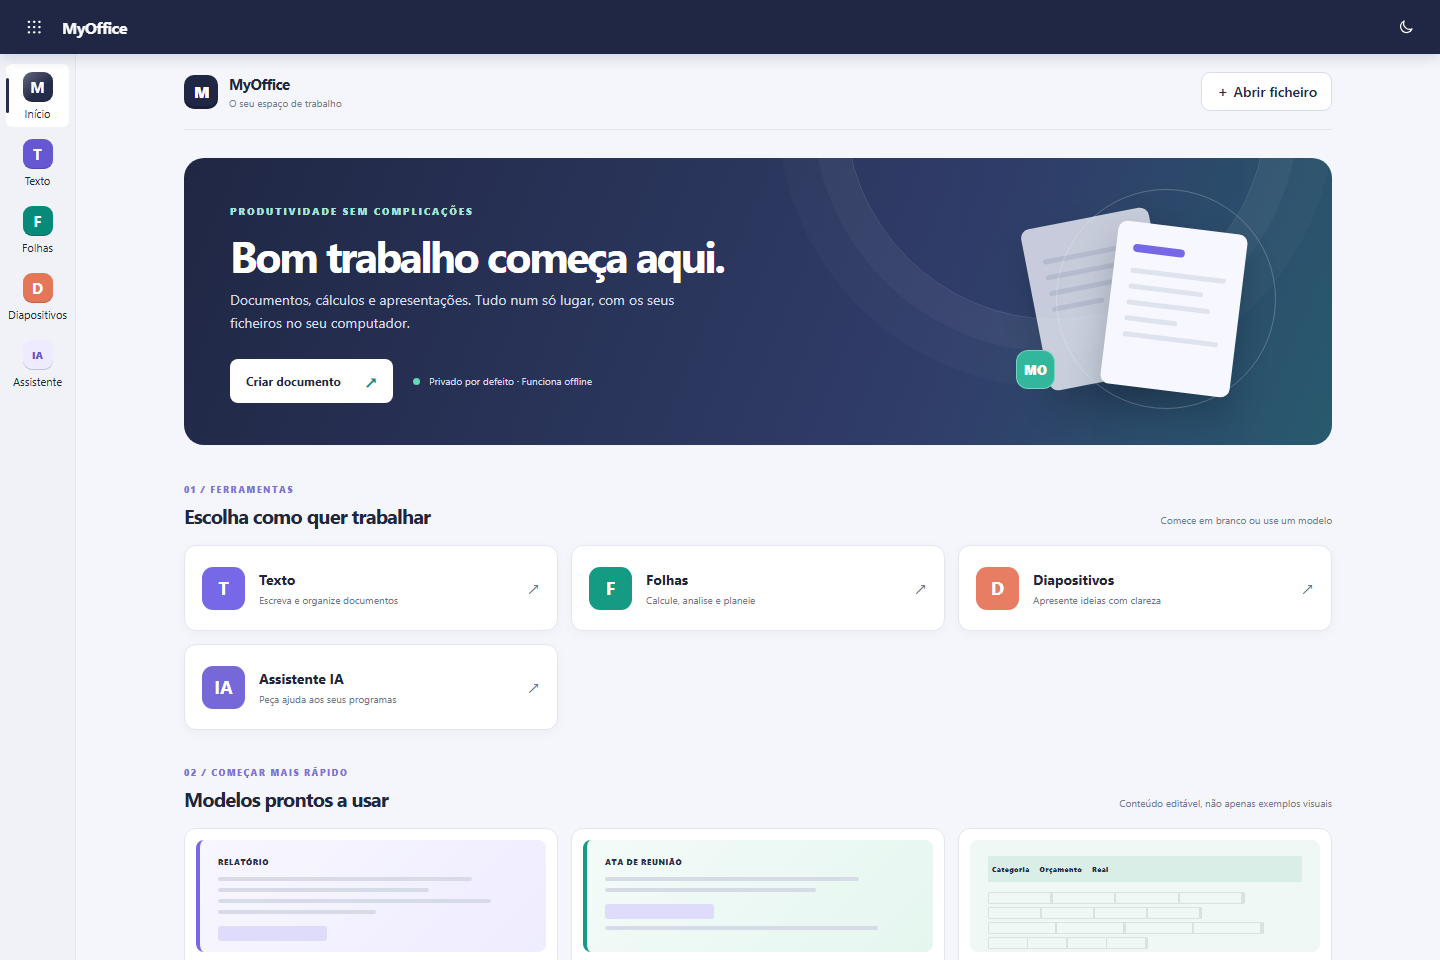
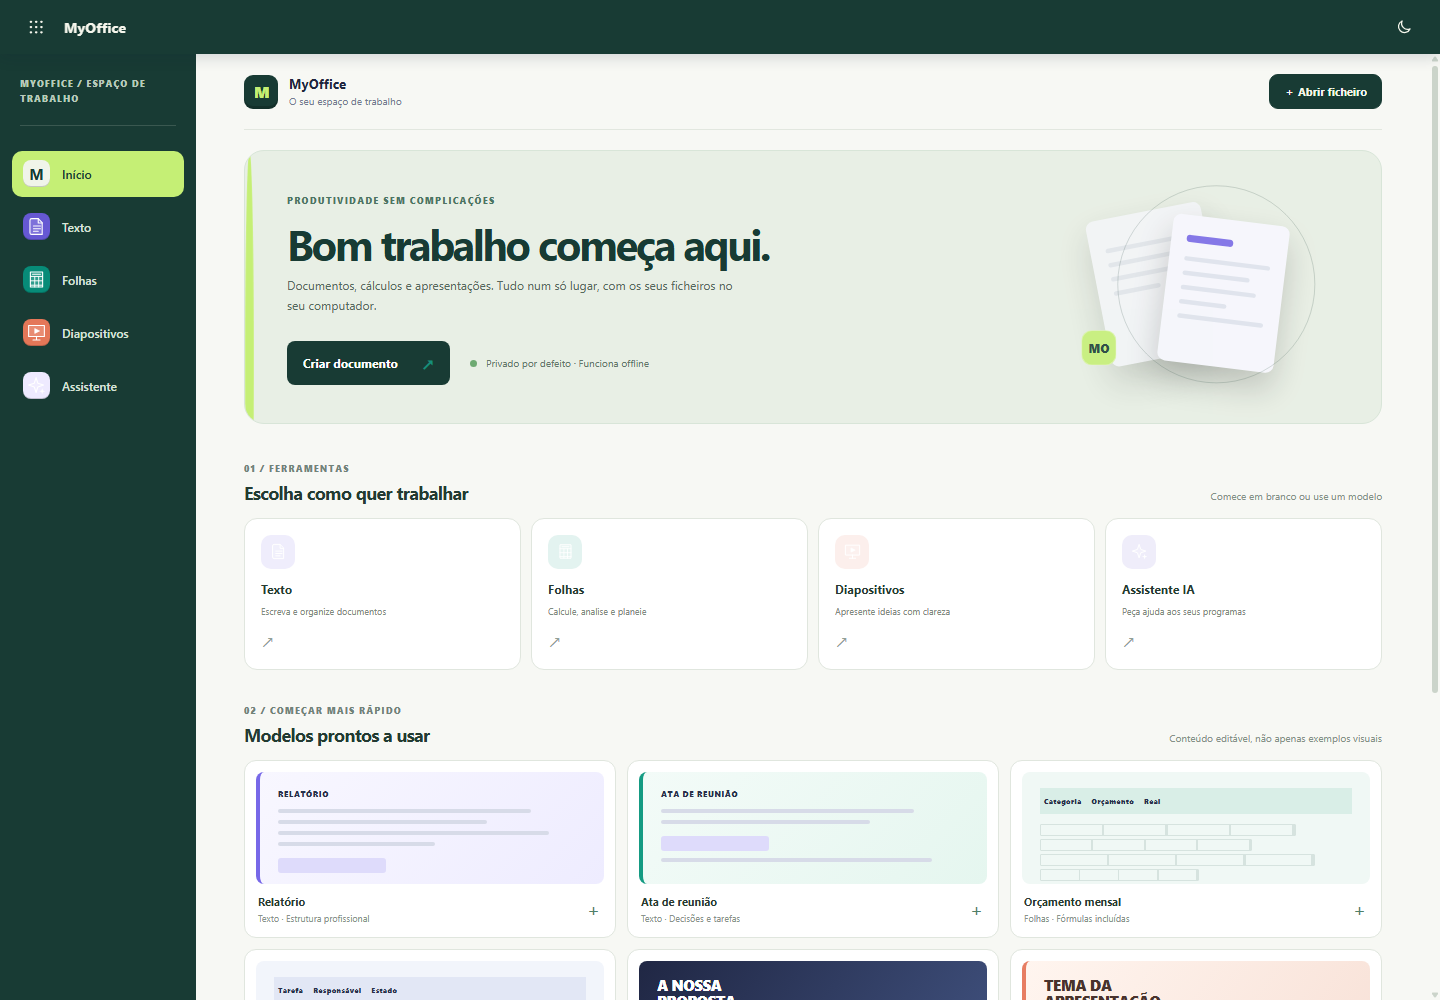
Refresh README with new workspace screenshots

diff --git a/README.md b/README.md
@@ -11,11 +11,15 @@ O MyOffice reúne quatro áreas numa única aplicação: **Texto**, **Folhas**, 
 
 ## Capturas de ecrã
 
-As imagens abaixo são capturas da interface real do MyOffice Horizon 1.4.0, geradas pelo workflow de pré-visualização. Clica numa imagem para a abrir em tamanho completo.
+As capturas mostram a interface atual do MyOffice, com a nova identidade visual verde e o espaço de trabalho redesenhado.
 
-### Ecrã inicial
+### Novo espaço de trabalho
 
-![Ecrã inicial do MyOffice](docs/screenshots/inicio.png)
+![Novo ecrã inicial do MyOffice](docs/screenshots/inicio.png)
+
+### Ferramentas, modelos e ficheiros recentes
+
+![Vista completa do novo espaço de trabalho MyOffice](docs/screenshots/inicio-completo.png)
 
 ### MyOffice Texto
 
@@ -48,7 +52,7 @@ O Assistente IA tem uma área própria, com conversa e atalhos para obter ajuda 
 
 ### Funcionalidades principais
 
-- **Espaço de trabalho MyOffice Horizon** — página inicial renovada com acesso direto às ferramentas, modelos editáveis e pesquisa de ficheiros recentes.
+- **Novo espaço de trabalho MyOffice** — identidade visual própria, navegação lateral, acesso direto às ferramentas, modelos editáveis e pesquisa de ficheiros recentes.
 - **Seis modelos prontos a usar** — relatório, ata de reunião, orçamento mensal com fórmulas, gestor de tarefas, apresentação de projeto e apresentação de aula.
 - **Gráficos em Folhas** — pré-visualização de gráficos de colunas e linhas a partir de dados selecionados, com exportação SVG.
 - **Análise estatística em Folhas** — fórmulas para mediana, moda, desvio padrão e variância, além de soma, média e contagem.
@@ -125,7 +129,7 @@ Este motor é intencionalmente transparente e não é um modelo generativo: não
 
 ## Aparência e produtividade
 
-- **Identidade visual MyOffice Horizon** — espaço de trabalho com hierarquia visual própria, modelos editáveis, pesquisa de ficheiros e acesso rápido às três ferramentas.
+- **Identidade visual MyOffice** — paleta verde, navegação lateral e cartões de acesso rápido às ferramentas e aos modelos.
 - **Desempenho** — interface sem animações decorativas obrigatórias e com efeitos visuais reduzidos para favorecer computadores modestos.
 - **Modo claro e escuro** — acompanha a preferência do sistema, com possibilidade de alteração na aplicação.
 - **13 temas de documento** — Escritório, Executivo, Oceano, Floresta, Pôr do sol, Coral, Menta, Lavanda, Areia, Grafite, Noite, Técnico e Contraste.
